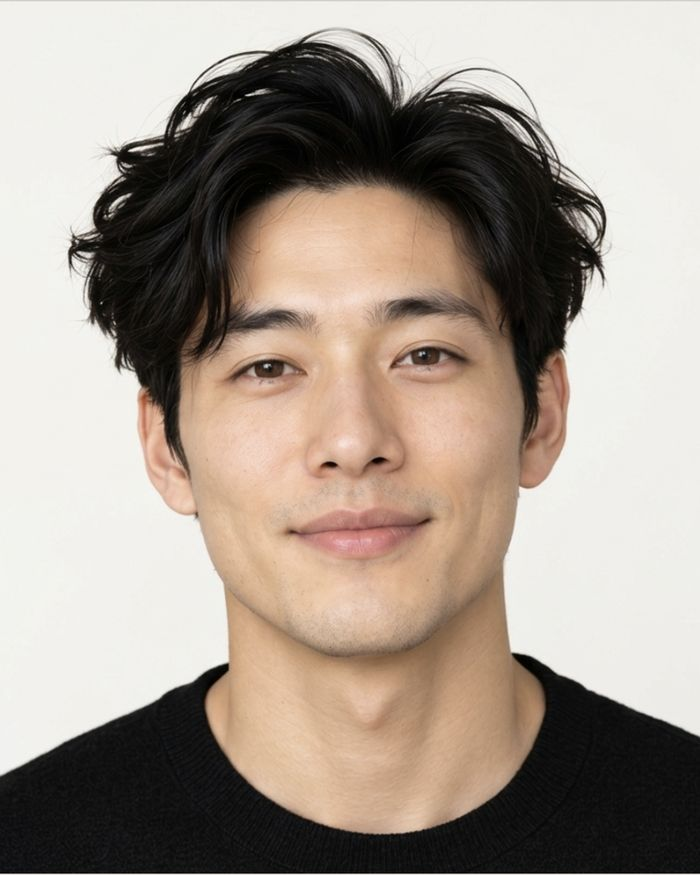
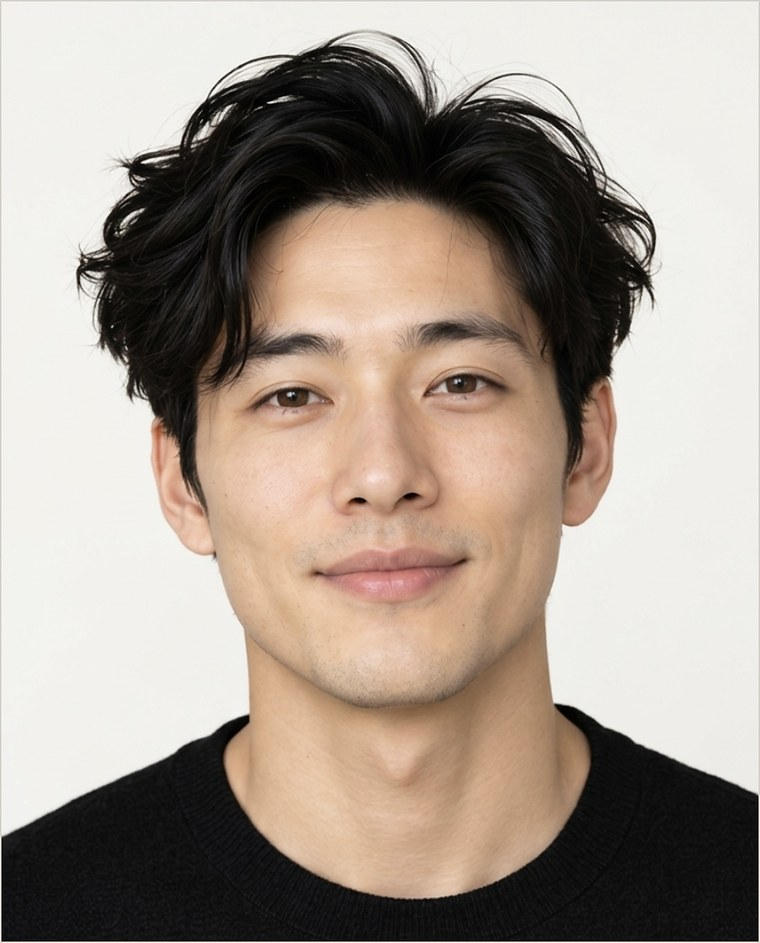
Put the generated slide on white, and ship the faces sharp
The first export of the new cast was downscaled to 700px, which threw
away detail the screenshots actually held: eyebrow and pore texture
turned to mush wherever the deck painted an image larger than that.

Measured what each slot paints at 1920x1080 on a 2x display, then
re-cut every face from the source. The eleven that land in large boxes
now ship at the screenshots' native 1028x1276 with no resampling at
all; the five cast tiles never exceed 488px across, so they ship at
760 wide with a light unsharp pass to recover the downscale.

Every model photo now paints at or under its natural size, worst case
1.07x on the generated slide. It was 1.73x there before.

The generated slide also moves from the dark tone to the light one.

diff --git a/sora/index.html b/sora/index.html
@@ -1061,7 +1061,7 @@ body{
 </section>
 
 <!-- ══ 07 · GENERATED ════════════════════════════════════════ -->
-<section class="panel" id="p7" data-tone="dark" data-label="Generated" data-replay="1">
+<section class="panel" id="p7" data-tone="light" data-label="Generated" data-replay="1">
   <p class="tag m">04 &middot; Generated</p>
   <div class="wrap">
     <div class="compose">
@@ -1070,7 +1070,7 @@ body{
         <span class="lbl m">Source photo</span>
       </div>
       <div class="link r" style="--d:.35s">
-        <span class="anchor"><img src="assets/cast-rafael.jpg" alt="Rafael&rsquo;s anchor portrait." width="700" height="875"></span>
+        <span class="anchor"><img src="assets/cast-rafael.jpg" alt="Rafael&rsquo;s anchor portrait." width="760" height="943"></span>
         <span class="m" style="color:var(--faint)">Anchor</span>
         <span class="beam"></span>
       </div>
@@ -1911,8 +1911,8 @@ body{
     f.innerHTML =
       (MATCHES[n] ? '<span class="badge">Match</span>' : '') +
       '<div class="gen gray" style="--dur:1.5s;--del:' + (0.25 + i * 0.16).toFixed(2) + 's">' +
-        '<img class="raw" src="assets/cast-' + n + '.jpg" alt="" aria-hidden="true" width="460" height="578">' +
-        '<img class="fin" src="assets/cast-' + n + '.jpg" alt="' + name + ', anchor portrait." width="460" height="578">' +
+        '<img class="raw" src="assets/cast-' + n + '.jpg" alt="" aria-hidden="true" width="760" height="943">' +
+        '<img class="fin" src="assets/cast-' + n + '.jpg" alt="' + name + ', anchor portrait." width="760" height="943">' +
         '<span class="bar"></span>' +
       '</div><figcaption class="m">' + name + '</figcaption>';
     castrow.appendChild(f);
